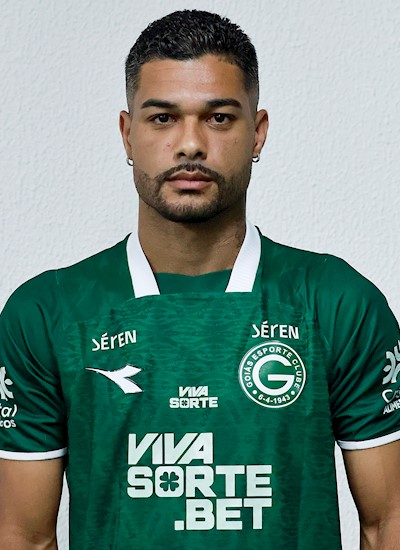
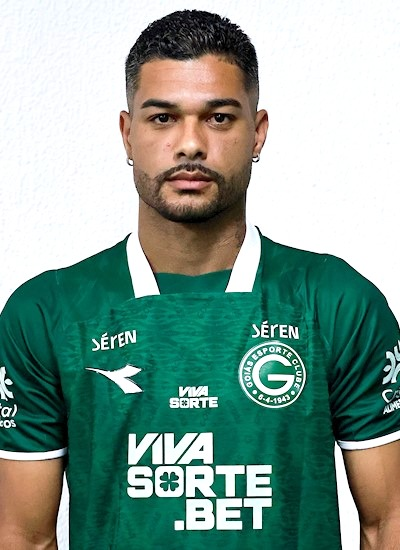
Normalize squad photo backgrounds and polish the player detail page
Every player photo now sits on the same soft studio backdrop instead
of a mix of transparent/white/photographic backgrounds - the 5 with
broken backgrounds got recomposited, the other 26 got a per-channel
brightness match so they read as one consistent set. Also bumped the
position label size and show "0" instead of a blank dash when a
career stint has no recorded games/goals.

diff --git a/lib/features/squad/domain/squad_photos.dart b/lib/features/squad/domain/squad_photos.dart
@@ -4,10 +4,10 @@
 const squadPhotoAssets = {
   'tadeu': 'lib/assets/squad/tadeu.jpg',
   'ezequiel': 'lib/assets/squad/ezequiel.jpg',
-  'murillo_victorio': 'lib/assets/squad/murillo_victorio.png',
+  'murillo_victorio': 'lib/assets/squad/murillo_victorio.jpg',
   'thiago_rodrigues': 'lib/assets/squad/thiago_rodrigues.jpg',
   'luisao': 'lib/assets/squad/luisao.jpg',
-  'lucas_ribeiro': 'lib/assets/squad/lucas_ribeiro.png',
+  'lucas_ribeiro': 'lib/assets/squad/lucas_ribeiro.jpg',
   'luiz_felipe': 'lib/assets/squad/luiz_felipe.jpg',
   'ramon_menezes': 'lib/assets/squad/ramon_menezes.jpg',
   'murilo_camara': 'lib/assets/squad/murilo_camara.jpg',
@@ -17,14 +17,14 @@ const squadPhotoAssets = {
   'danilo': 'lib/assets/squad/danilo.jpg',
   'djalma': 'lib/assets/squad/djalma.jpg',
   'lourenco': 'lib/assets/squad/lourenco.jpg',
-  'filipe_machado': 'lib/assets/squad/filipe_machado.png',
+  'filipe_machado': 'lib/assets/squad/filipe_machado.jpg',
   'baldoria': 'lib/assets/squad/baldoria.jpg',
   'juninho': 'lib/assets/squad/juninho.jpg',
   'lucas_rodrigues': 'lib/assets/squad/lucas_rodrigues.jpg',
   'gege': 'lib/assets/squad/gege.jpg',
-  'lucas_lima': 'lib/assets/squad/lucas_lima.png',
+  'lucas_lima': 'lib/assets/squad/lucas_lima.jpg',
   'brayann': 'lib/assets/squad/brayann.jpg',
-  'wellington_rato': 'lib/assets/squad/wellington_rato.png',
+  'wellington_rato': 'lib/assets/squad/wellington_rato.jpg',
   'pedrinho': 'lib/assets/squad/pedrinho.jpg',
   'anselmo_ramon': 'lib/assets/squad/anselmo_ramon.jpg',
   'cadu': 'lib/assets/squad/cadu.jpg',

diff --git a/lib/features/squad/presentation/pages/squad_member_detail_page.dart b/lib/features/squad/presentation/pages/squad_member_detail_page.dart
@@ -142,8 +142,8 @@ class _PlayerProfileHeader extends StatelessWidget {
             positionLine,
             textAlign: TextAlign.center,
             style: TextStyle(
-              fontSize: 16,
-              fontWeight: FontWeight.w600,
+              fontSize: 18,
+              fontWeight: FontWeight.w700,
               color: colors.primary,
             ),
           ),
@@ -356,7 +356,7 @@ class _PlayerCareerItem extends StatelessWidget {
   static final _monthPrefix = RegExp('[a-zçã]{3}/', caseSensitive: false);
   String _yearsOnly(String period) => period.replaceAll(_monthPrefix, '');
 
-  String _n(int? value) => value?.toString() ?? '—';
+  String _n(int? value) => value?.toString() ?? '0';
 
   @override
   Widget build(BuildContext context) {
